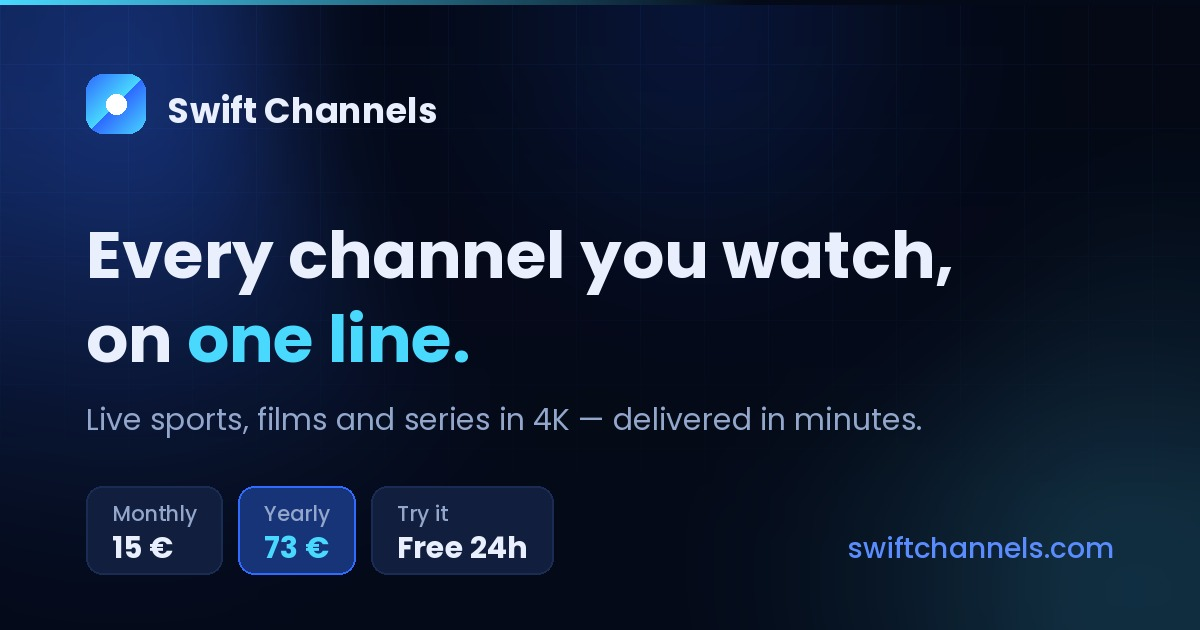
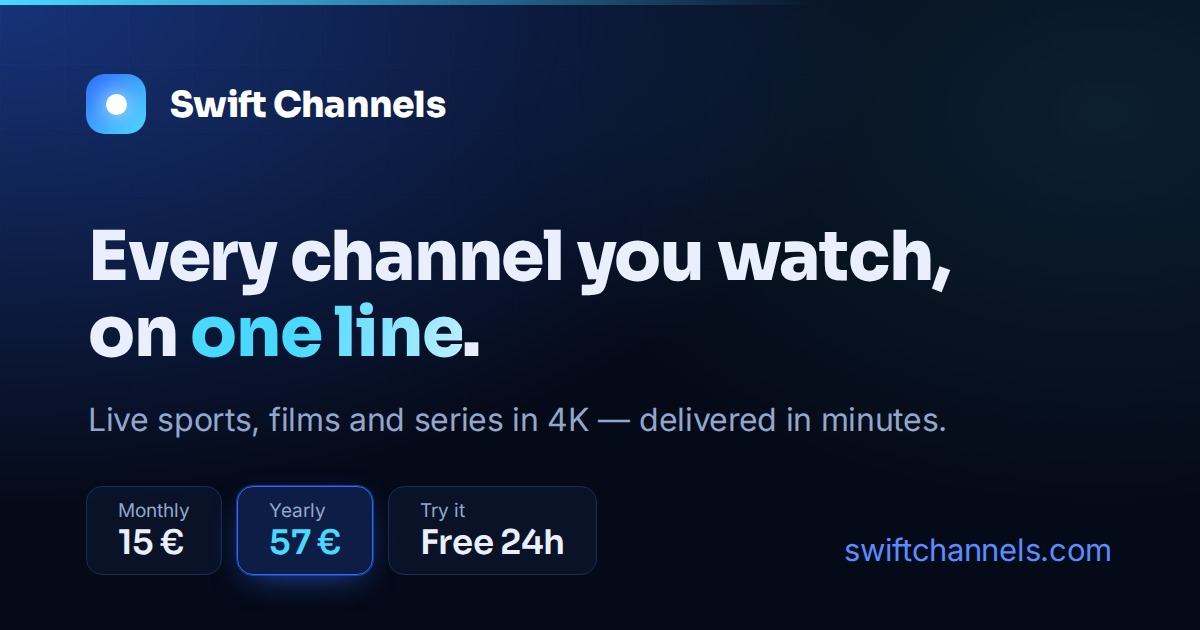
share card: 57 € yearly, generated from html

diff --git a/assets/og-card.html b/assets/og-card.html
@@ -1,0 +1,98 @@
+<!DOCTYPE html>
+<html lang="en">
+<head>
+<meta charset="utf-8">
+<title>Swift Channels — share card</title>
+<!--
+  Source for assets/og-card.jpg — the 1200×630 image that shows when the site
+  is shared on WhatsApp, Facebook, X or iMessage.
+
+  Edit the prices here, then regenerate:   node build-og.js
+  Fonts are pulled from node_modules (npm install @fontsource/sora @fontsource/inter).
+-->
+<style>
+@font-face{font-family:Sora;font-weight:600;
+  src:url('../node_modules/@fontsource/sora/files/sora-latin-600-normal.woff2') format('woff2')}
+@font-face{font-family:Sora;font-weight:800;
+  src:url('../node_modules/@fontsource/sora/files/sora-latin-800-normal.woff2') format('woff2')}
+@font-face{font-family:InterC;font-weight:400;
+  src:url('../node_modules/@fontsource/inter/files/inter-latin-400-normal.woff2') format('woff2')}
+@font-face{font-family:InterC;font-weight:600;
+  src:url('../node_modules/@fontsource/inter/files/inter-latin-600-normal.woff2') format('woff2')}
+
+:root{
+  --night:#050A18; --blue:#2F6BFF; --blue-hi:#5A8CFF; --blue-deep:#1B49C4;
+  --cyan:#49D9FF; --ice:#E9EFFC; --muted:#93A6CC; --line:#1B2C54;
+}
+*{box-sizing:border-box;margin:0;padding:0}
+html,body{width:1200px;height:630px;overflow:hidden}
+body{
+  position:relative;background:var(--night);
+  font-family:InterC,system-ui,sans-serif;
+  -webkit-font-smoothing:antialiased;
+}
+/* ambient blue field, brightest at the top-left */
+.glow{position:absolute;inset:0;
+  background:
+    radial-gradient(120% 130% at 0% 0%, rgba(47,107,255,.42), transparent 62%),
+    radial-gradient(70% 90% at 92% 18%, rgba(73,217,255,.10), transparent 70%)}
+/* faint grid, faded out towards the bottom right */
+.grid{position:absolute;inset:0;
+  background-image:
+    linear-gradient(rgba(47,107,255,.06) 1px, transparent 1px),
+    linear-gradient(90deg, rgba(47,107,255,.06) 1px, transparent 1px);
+  background-size:64px 64px;
+  -webkit-mask-image:radial-gradient(ellipse 95% 90% at 0% 0%, #000, transparent 75%)}
+/* accent rule along the very top */
+.rule{position:absolute;top:0;left:0;right:0;height:5px;
+  background:linear-gradient(90deg, var(--cyan), rgba(73,217,255,0) 68%)}
+
+.brand{position:absolute;left:86px;top:74px;display:flex;align-items:center;gap:24px}
+.mark{width:60px;height:60px;border-radius:19px;position:relative;
+  background:linear-gradient(135deg, var(--blue), var(--cyan));display:grid;place-items:center}
+.mark::after{content:'';width:21px;height:21px;border-radius:50%;background:#fff;
+  box-shadow:0 0 22px rgba(255,255,255,.9)}
+.brand span{font-family:Sora;font-weight:800;font-size:36px;letter-spacing:-.02em;color:#fff}
+
+h1{position:absolute;left:88px;top:219px;width:1000px;
+  font-family:Sora;font-weight:800;font-size:69px;line-height:1.10;
+  letter-spacing:-.018em;color:var(--ice)}
+h1 b{font-weight:800;background:linear-gradient(103deg, var(--cyan), var(--cyan) 40%, #BFEEFF);
+  -webkit-background-clip:text;background-clip:text;color:transparent}
+
+.sub{position:absolute;left:88px;top:400px;font-size:32px;color:var(--muted);letter-spacing:-.01em}
+
+.chips{position:absolute;left:86px;top:486px;display:flex;gap:15px;align-items:stretch}
+.chip{min-width:118px;height:89px;padding:14px 31px;border-radius:16px;
+  border:1px solid var(--line);background:rgba(13,22,47,.72);
+  display:flex;flex-direction:column;justify-content:center;gap:6px}
+.chip .k{font-size:19px;color:var(--muted);line-height:1}
+.chip .v{font-family:Sora;font-weight:600;font-size:34px;color:var(--ice);line-height:1;letter-spacing:-.01em}
+.chip.hi{border-color:var(--blue);background:rgba(47,107,255,.20);
+  box-shadow:0 0 0 1px rgba(47,107,255,.45), 0 10px 34px -12px rgba(47,107,255,.75)}
+.chip.hi .v{color:var(--cyan)}
+
+.domain{position:absolute;right:88px;top:531px;
+  font-size:31px;color:var(--blue-hi);letter-spacing:-.01em}
+</style>
+</head>
+<body>
+  <div class="glow"></div>
+  <div class="grid"></div>
+  <div class="rule"></div>
+
+  <div class="brand"><div class="mark"></div><span>Swift Channels</span></div>
+
+  <h1>Every channel you watch,<br>on <b>one line</b>.</h1>
+
+  <p class="sub">Live sports, films and series in 4K — delivered in minutes.</p>
+
+  <div class="chips">
+    <div class="chip"><div class="k">Monthly</div><div class="v">15 €</div></div>
+    <div class="chip hi"><div class="k">Yearly</div><div class="v">57 €</div></div>
+    <div class="chip"><div class="k">Try it</div><div class="v">Free 24h</div></div>
+  </div>
+
+  <div class="domain">swiftchannels.com</div>
+</body>
+</html>

diff --git a/build-og.js b/build-og.js
@@ -1,0 +1,47 @@
+#!/usr/bin/env node
+/* ═══════════════════════════════════════════════════════════════════════
+   Swift Channels — share-card renderer
+   ───────────────────────────────────────────────────────────────────────
+   Renders assets/og-card.html to assets/og-card.jpg at 1200×630 — the
+   image WhatsApp, Facebook, X and iMessage show when the site is shared.
+
+   Edit the prices in assets/og-card.html, then:
+
+       node build-og.js
+
+   Needs the fonts once:  npm install @fontsource/sora @fontsource/inter
+   ═══════════════════════════════════════════════════════════════════════ */
+
+const { chromium } = require('playwright');
+const path = require('path');
+const fs   = require('fs');
+
+(async () => {
+  const src = path.join(__dirname, 'assets', 'og-card.html');
+  const out = path.join(__dirname, 'assets', 'og-card.jpg');
+
+  if (!fs.existsSync(path.join(__dirname, 'node_modules', '@fontsource', 'sora'))) {
+    console.error('Fonts missing. Run:  npm install @fontsource/sora @fontsource/inter');
+    process.exit(1);
+  }
+
+  const browser = await chromium.launch();
+  const page = await browser.newPage({
+    viewport: { width: 1200, height: 630 },
+    deviceScaleFactor: 2            // render at 2× then downsample — crisper text
+  });
+
+  await page.goto('file://' + src);
+  await page.evaluate(() => document.fonts.ready);
+  await page.waitForTimeout(400);
+
+  const shot = await page.screenshot({ type: 'jpeg', quality: 92, scale: 'css' });
+  fs.writeFileSync(out, shot);
+  await browser.close();
+
+  console.log(`  ✓ assets/og-card.jpg  (1200×630, ${(shot.length/1024).toFixed(0)} KB)`);
+  console.log('\nRemember: after pushing, re-scrape the preview so the old card is dropped —');
+  console.log('  Facebook  https://developers.facebook.com/tools/debug/');
+  console.log('  X         https://cards-dev.twitter.com/validator');
+  console.log('  WhatsApp caches per-device; a fresh chat usually picks it up.');
+})();

diff --git a/README.md b/README.md
@@ -159,7 +159,8 @@ translation engine to switch language, and saves the result as a static page —
 so the generated pages can never drift from the live behaviour. It also rewrites
 `sitemap.xml` with the hreflang alternates.
 
-First time only: `npm install playwright` (the build needs a headless browser).
+First time only: `npm install` (pulls Playwright for the headless browser, plus
+the Sora and Inter fonts used by the share card). `node_modules/` is git-ignored.
 
 ### Adding or changing wording
 
@@ -176,6 +177,24 @@ pass, then rebuild.
 3. Add a flag to `assets/` and a link to the switcher in `index.html` **and**
    `legal.html`.
 4. `node build.js`.
+
+### The share card
+
+`assets/og-card.jpg` is the 1200×630 image WhatsApp, Facebook and X show when
+someone shares the site. It is **generated**, not hand-drawn:
+
+```bash
+node build-og.js      # assets/og-card.html  →  assets/og-card.jpg
+```
+
+Edit the prices or wording in `assets/og-card.html`, then rerun it. Never edit
+the .jpg directly — the next render overwrites it.
+
+After pushing a new card, the old one stays cached for a while. Force a refresh:
+
+- Facebook — https://developers.facebook.com/tools/debug/ → paste URL → Scrape Again
+- X — https://cards-dev.twitter.com/validator
+- WhatsApp caches per device; a brand-new chat usually pulls the new one
 
 ### Telling Bing immediately (IndexNow)
 
